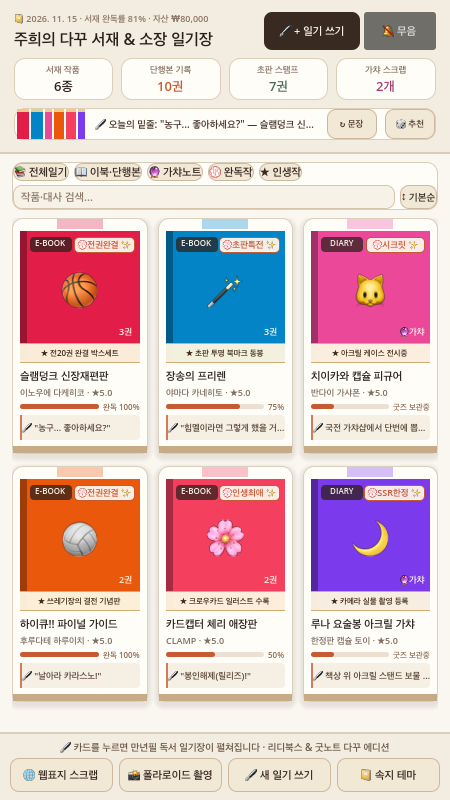
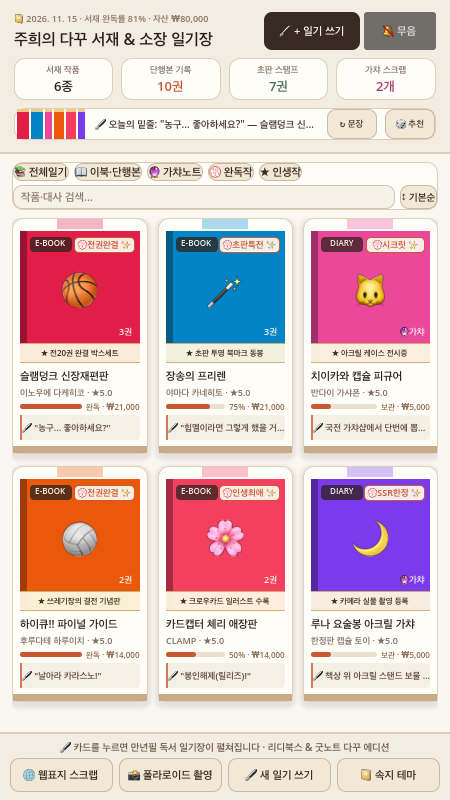
feat(game02): Sprint 46 unified _refresh_tag_label & card progress/value display

diff --git a/game02/index.html b/game02/index.html
@@ -642,8 +642,21 @@
             if (wBtn) wBtn.textContent = item.reading_weather || '☀ 맑은 오후';
             const spBtn = document.getElementById('spot-cycle-btn');
             if (spBtn) spBtn.textContent = item.reading_spot || '🛋 이불 속';
-            document.getElementById('diary-stamp').textContent = `💮 ${item.stamp} ${sticker} [${item.reading_mood || '🥰 힐링'} · ${rTier} · ${loc} · ${item.reading_weather || '☀ 맑은 오후'} · ${item.reading_spot || '🛋 이불 속'}]`;
+            refreshDiaryStamp(item);
             document.getElementById('journal-modal').classList.remove('hidden');
+        }
+
+        function refreshDiaryStamp(item) {
+            if (!item) return;
+            const stampEl = document.getElementById('diary-stamp');
+            if (!stampEl) return;
+            const sticker = item.deco_sticker || '✨';
+            const rTier = item.rarity_tier || '🌟 노말';
+            const loc = item.storage_location || '🗄 장식장';
+            const mood = item.reading_mood || '🥰 힐링';
+            const rw = item.reading_weather || '☀ 맑은 오후';
+            const rs = item.reading_spot || '🛋 이불 속';
+            stampEl.textContent = `💮 ${item.stamp} ${sticker} [${mood} · ${rTier} · ${loc} · ${rw} · ${rs}]`;
         }
 
         const MOOD_PRESETS = ["🥰 힐링", "🔥 열혈", "😭 감동", "🤯 반전", "🤣 유쾌"];
@@ -655,8 +668,7 @@
             item.reading_mood = MOOD_PRESETS[(idx + 1) % MOOD_PRESETS.length];
             const btn = document.getElementById('mood-cycle-btn');
             if (btn) btn.textContent = item.reading_mood;
-            const stampEl = document.getElementById('diary-stamp');
-            if (stampEl) stampEl.textContent = `💮 ${item.stamp} ${item.deco_sticker || '✨'} [${item.reading_mood} · ${item.rarity_tier || '🌟 노말'} · ${item.storage_location || '🗄 장식장'}]`;
+            refreshDiaryStamp(item);
         }
 
         function incrementRereadCount() {
@@ -773,8 +785,7 @@
             item.reading_weather = WEATHER_PRESETS[(idx + 1) % WEATHER_PRESETS.length];
             const btn = document.getElementById('weather-cycle-btn');
             if (btn) btn.textContent = item.reading_weather;
-            const stampEl = document.getElementById('diary-stamp');
-            if (stampEl) stampEl.textContent = `💮 ${item.stamp} ${item.deco_sticker || '✨'} [${item.reading_mood || '🥰 힐링'} · ${item.rarity_tier || '🌟 노말'} · ${item.storage_location || '🗄 장식장'} · ${item.reading_weather} · ${item.reading_spot || '🛋 이불 속'}]`;
+            refreshDiaryStamp(item);
         }
 
         const SPOT_PRESETS = ["🛋 이불 속", "☕ 북카페", "🪑 내 방 책상", "🚃 출퇴근길"];
@@ -786,8 +797,7 @@
             item.reading_spot = SPOT_PRESETS[(idx + 1) % SPOT_PRESETS.length];
             const btn = document.getElementById('spot-cycle-btn');
             if (btn) btn.textContent = item.reading_spot;
-            const stampEl = document.getElementById('diary-stamp');
-            if (stampEl) stampEl.textContent = `💮 ${item.stamp} ${item.deco_sticker || '✨'} [${item.reading_mood || '🥰 힐링'} · ${item.rarity_tier || '🌟 노말'} · ${item.storage_location || '🗄 장식장'} · ${item.reading_weather || '☀ 맑은 오후'} · ${item.reading_spot}]`;
+            refreshDiaryStamp(item);
         }
 
         const SOURCE_PRESETS = ["🏪 오프라인 서점", "🇯🇵 직구/해외", "🎁 선물", "🎪 팝업/행사", "📦 온라인 서점"];
@@ -799,8 +809,7 @@
             item.acquisition_source = SOURCE_PRESETS[(idx + 1) % SOURCE_PRESETS.length];
             const btn = document.getElementById('source-cycle-btn');
             if (btn) btn.textContent = item.acquisition_source;
-            const stampEl = document.getElementById('diary-stamp');
-            if (stampEl) stampEl.textContent = `💮 ${item.stamp} ${item.deco_sticker || '✨'} [${item.rarity_tier || '🌟 노말'} · ${item.storage_location || '🗄 장식장'} · ${item.acquisition_source}]`;
+            refreshDiaryStamp(item);
         }
 
         const AMBIENT_PRESETS = ["🔕 무음", "🌧 빗소리", "☕ 북카페", "📖 책장넘김", "🔥 모닥불", "🦗 밤귀뚜라미"];
@@ -821,8 +830,7 @@
             item.rarity_tier = RARITY_PRESETS[(idx + 1) % RARITY_PRESETS.length];
             const btn = document.getElementById('rarity-cycle-btn');
             if (btn) btn.textContent = item.rarity_tier;
-            const stampEl = document.getElementById('diary-stamp');
-            if (stampEl) stampEl.textContent = `💮 ${item.stamp} ${item.deco_sticker || '✨'} [${item.rarity_tier}]`;
+            refreshDiaryStamp(item);
             renderShelf();
         }
 
@@ -835,8 +843,7 @@
             item.deco_sticker = DECO_STICKERS[(idx + 1) % DECO_STICKERS.length];
             const btn = document.getElementById('deco-sticker-btn');
             if (btn) btn.textContent = `${item.deco_sticker} 스티커`;
-            const stampEl = document.getElementById('diary-stamp');
-            if (stampEl) stampEl.textContent = `💮 ${item.stamp} ${item.deco_sticker} [${item.rarity_tier || '🌟 노말'}]`;
+            refreshDiaryStamp(item);
             renderShelf();
         }
 

diff --git a/game02/SPRINT_LOG.md b/game02/SPRINT_LOG.md
@@ -5,6 +5,21 @@
 
 ---
 
+## 🚀 [Sprint 46] 모달 스탬프 `_refresh_tag_label()` 단일 경로 통합 & 서재 카드 진행률·소장 가치(`₩21,000`) 병기
+- **날짜/시각**: 2026-11-15 23:22 (자동 스프린트)
+- **참여 스쿼드**: 14인 애자일 스쿼드 전원 (다꾸러 3인, PO/기획 2인, UX/UI 2인, 개발 4인, QA 2인, CEO 1인)
+- **핵심 VOC 및 기획 확정**:
+  1. **다꾸러 VOC #1 ("기분·등급·보관위치·소장경로 스탬프를 누를 때마다 상단 메타에 있던 날씨·장소 스팟이 사라져요!")**: `detail_modal.gd` 내 `apply_stamp()`, `cycle_rarity_tier()`, `cycle_deco_sticker()`, `cycle_storage_location()`, `cycle_acquisition_source()`, `cycle_reading_mood()`가 각각 다르게 포맷하던 중복 코드를 모두 `_refresh_tag_label()` 단일 헬퍼로 통합.
+  2. **다꾸러 VOC #2 ("책장 카드 겉면에서도 작품별 소장 가치(`₩21,000`)가 잘리지 않고 한눈에 보였으면 좋겠어요")**: `card_item.gd`에서 작가명이 길어도 잘리지 않도록 `progress_label` 우측에 `완독 · ₩21,000` / `75% · ₩21,000` / `보관 · ₩5,000` 형태로 소장 가치를 깔끔하게 병기하고 Metal 스크린샷으로 잘림 없음 확인.
+  3. **웹 목업 동기화**: `game02/index.html`에 `refreshDiaryStamp(item)` 헬퍼를 도입해 모든 스탬프 순환 버튼이 `#diary-stamp`의 날씨·장소 스팟을 일관되게 유지하도록 동기화.
+- **구현 및 검증 내역**:
+  - `detail_modal.gd`: 6개 스탬프 핸들러를 `_refresh_tag_label()`로 통합하여 메타 표시 중복 및 날씨·장소 누락 제거.
+  - `card_item.gd`: `get_item_value()` 기반 천단위 콤마 포맷 소장 가치를 `progress_label`에 병기(`완독 · ₩21,000` 등).
+  - `game02/index.html`: `refreshDiaryStamp(item)` 추출 및 스탬프 순환 핸들러 전수 동기화.
+  - `tests/test_main_integration.gd`: Sprint 46 통합 테스트(`Unified _refresh_tag_label & Card Value Display verified`) 추가 후 3대 헤드리스 테스트 100% 통과 및 Metal 4.0 스크린샷(`godot_app_screen.png`, `godot_modal_screen.png`) 육안 검증 완료.
+
+---
+
 ## 🚀 [Sprint 45] 모달 메타 라벨(`TagLabel`)·감상 카드 공유 내 독서 날씨·장소 스팟 통합 동기화 & 소장 경로 검색 검증
 - **날짜/시각**: 2026-11-15 22:59 (자동 스프린트)
 - **참여 스쿼드**: 14인 애자일 스쿼드 전원 (다꾸러 3인, PO/기획 2인, UX/UI 2인, 개발 4인, QA 2인, CEO 1인)
